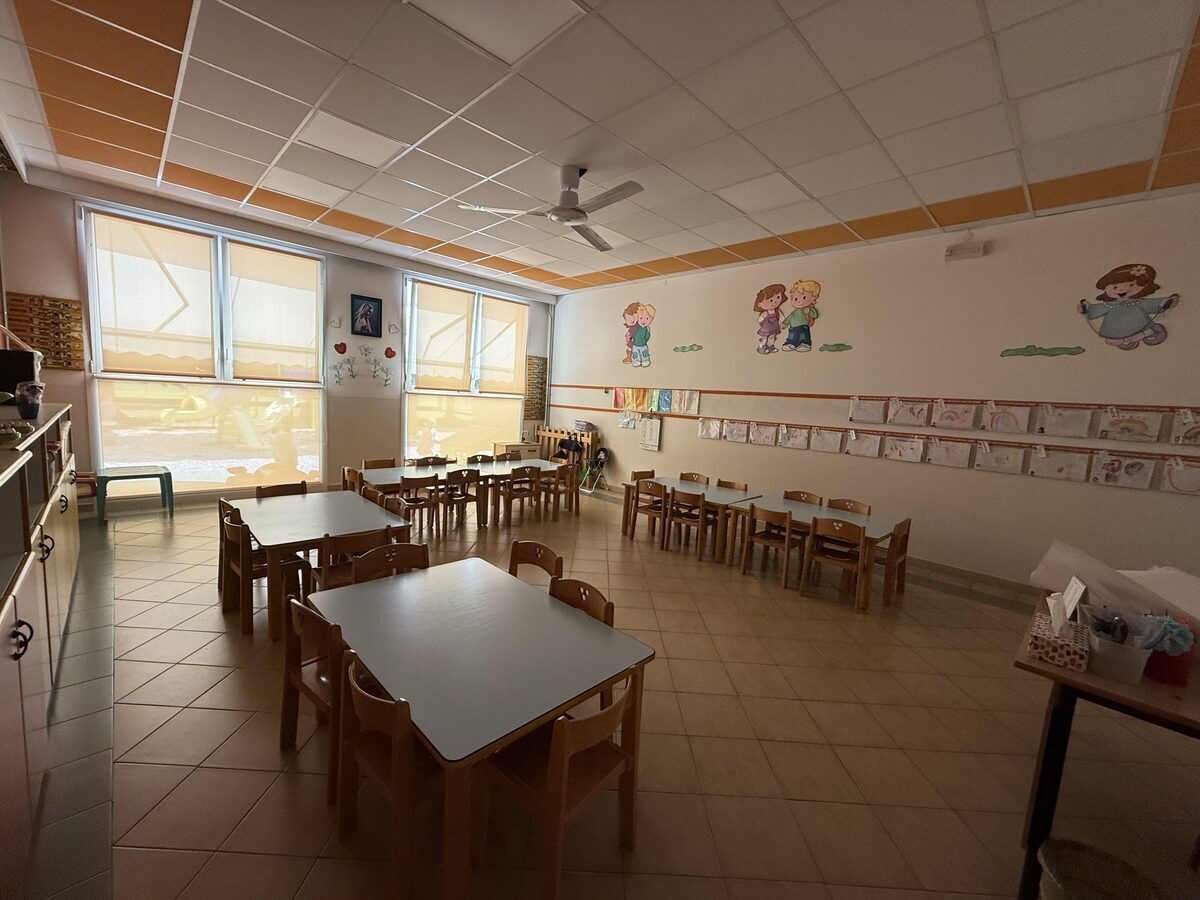
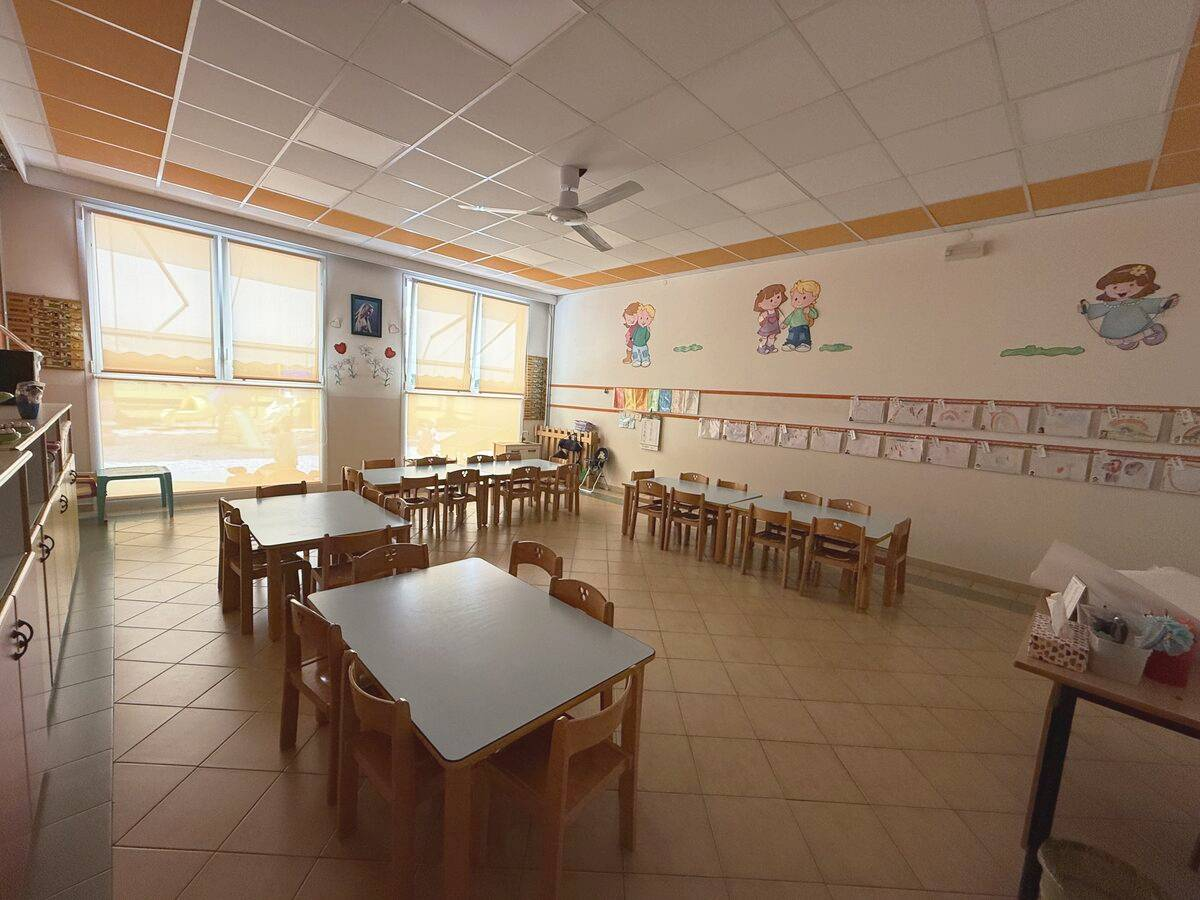
caricamento nuove immagini sul sito

diff --git a/mensa.html b/mensa.html
@@ -20,7 +20,7 @@
     <link rel="icon" type="image/png" sizes="32x32" href="assets/images/favicon-32x32.png">
     <link rel="icon" type="image/png" sizes="16x16" href="assets/images/favicon-16x16.png">
     <link rel="apple-touch-icon" href="assets/images/apple-touch-icon.png">
-    <link rel="stylesheet" href="style.css?v=2">
+    <link rel="stylesheet" href="style.css?v=6">
 </head>
 <body>
     <!-- Header -->
@@ -130,31 +130,31 @@
                     </tr>
                     <tr>
                         <td><strong>Martedì</strong></td>
-                        <td>&mdash;</td>
-                        <td>&mdash;</td>
-                        <td>&mdash;</td>
-                        <td>&mdash;</td>
+                        <td>Frutta/yogurt</td>
+                        <td>Gramigna all'olio</td>
+                        <td>Fettina di tacchino al vapore</td>
+                        <td>Insalata songino</td>
                     </tr>
                     <tr>
                         <td><strong>Mercoledì</strong></td>
-                        <td>&mdash;</td>
-                        <td>&mdash;</td>
-                        <td>&mdash;</td>
-                        <td>&mdash;</td>
+                        <td>Frutta/yogurt</td>
+                        <td>Pasta e fagioli alla veneta</td>
+                        <td>Uova strapazzate agli spinaci</td>
+                        <td>Carote julienne</td>
                     </tr>
                     <tr>
                         <td><strong>Giovedì</strong></td>
-                        <td>&mdash;</td>
-                        <td>&mdash;</td>
-                        <td>&mdash;</td>
-                        <td>&mdash;</td>
+                        <td>Frutta/yogurt</td>
+                        <td>Crema di piselli</td>
+                        <td>Pollo alla romana</td>
+                        <td>Patate al forno</td>
                     </tr>
                     <tr>
                         <td><strong>Venerdì</strong></td>
-                        <td>&mdash;</td>
-                        <td>&mdash;</td>
-                        <td>&mdash;</td>
-                        <td>&mdash;</td>
+                        <td>Frutta/yogurt</td>
+                        <td>Gnocchetti sardi al pomodoro</td>
+                        <td>Prosciutto cotto</td>
+                        <td>Zucchine trifolate</td>
                     </tr>
                 </tbody>
             </table>

diff --git a/style.css b/style.css
@@ -165,7 +165,7 @@ nav ul li a.active {
    ==================================== */
 .hero {
     background-color: var(--colore-secondario); /* colore di riserva se l'immagine non carica */
-    background-image: url('assets/images/ambienti/aula_rossa.jpg');
+    background-image: url('assets/images/ambienti/scuola.jpg');
     background-size: cover;
     background-position: center;
     background-repeat: no-repeat;
@@ -176,13 +176,22 @@ nav ul li a.active {
     overflow: hidden;
 }
 
-/* Velo scuro leggero sopra la foto: insieme all'alone attorno ai caratteri
-   garantisce la leggibilità senza spegnere l'immagine */
+/* Velo concentrato sulla fascia orizzontale del testo, trasparente sopra e sotto.
+   Volutamente SENZA variazione orizzontale: un velo ellittico dava più luce,
+   ma la sua sfumatura laterale si vedeva come un'ombra sull'intonaco chiaro
+   a destra del titolo, dove la foto è piatta e non ha texture che la mascheri. */
 .hero::before {
     content: '';
     position: absolute;
     inset: 0;
-    background: linear-gradient(to bottom, rgba(0, 0, 0, 0.25), rgba(0, 0, 0, 0.35));
+    background: linear-gradient(to bottom,
+                rgba(0, 0, 0, 0) 0%,
+                rgba(0, 0, 0, 0.08) 15%,
+                rgba(0, 0, 0, 0.21) 30%,
+                rgba(0, 0, 0, 0.30) 48%,
+                rgba(0, 0, 0, 0.19) 70%,
+                rgba(0, 0, 0, 0.06) 85%,
+                rgba(0, 0, 0, 0) 100%);
 }
 
 .hero-content {
@@ -198,17 +207,15 @@ nav ul li a.active {
     font-size: 2.5rem;
     font-weight: 700;
     margin-bottom: 20px;
-    text-shadow: 0 0 12px rgba(0, 0, 0, 0.85),
-                 0 2px 5px rgba(0, 0, 0, 0.9),
-                 0 0 30px rgba(0, 0, 0, 0.6);
+    text-shadow: 0 2px 4px rgba(0, 0, 0, 0.85),
+                 0 0 10px rgba(0, 0, 0, 0.8);
 }
 
 .hero p {
     font-size: 1.2rem;
     margin-bottom: 30px;
-    text-shadow: 0 0 10px rgba(0, 0, 0, 0.9),
-                 0 1px 4px rgba(0, 0, 0, 0.9),
-                 0 0 24px rgba(0, 0, 0, 0.6);
+    text-shadow: 0 2px 4px rgba(0, 0, 0, 0.85),
+                 0 0 10px rgba(0, 0, 0, 0.8);
 }
 
 .btn {

diff --git a/sede_e_contatti.html b/sede_e_contatti.html
@@ -12,7 +12,7 @@
     <meta property="og:type" content="website">
     <meta property="og:locale" content="it_IT">
     <meta property="og:url" content="https://michelebatt.github.io/scuola-infanzia-creola/sede_e_contatti.html">
-    <meta property="og:image" content="https://michelebatt.github.io/scuola-infanzia-creola/assets/images/edificio.jpg">
+    <meta property="og:image" content="https://michelebatt.github.io/scuola-infanzia-creola/assets/images/ambienti/scuola.jpg">
     <meta name="twitter:card" content="summary_large_image">
     <title>Contatti | Scuola Infanzia S. M. Goretti Creola (PD)</title>
     <link rel="canonical" href="https://michelebatt.github.io/scuola-infanzia-creola/sede_e_contatti.html">
@@ -20,7 +20,7 @@
     <link rel="icon" type="image/png" sizes="32x32" href="assets/images/favicon-32x32.png">
     <link rel="icon" type="image/png" sizes="16x16" href="assets/images/favicon-16x16.png">
     <link rel="apple-touch-icon" href="assets/images/apple-touch-icon.png">
-    <link rel="stylesheet" href="style.css?v=2">
+    <link rel="stylesheet" href="style.css?v=6">
 </head>
 <body>
     <!-- Header -->
@@ -62,7 +62,7 @@
 
             <div class="contatti-grid">
                 <div class="contatto-item contatto-item-con-foto">
-                    <img src="assets/images/edificio.jpg" class="contatto-foto" alt="L'edificio della scuola visto dall'esterno" loading="lazy">
+                    <img src="assets/images/ambienti/scuola.jpg" class="contatto-foto" alt="La scuola vista dalla strada, con il nome scritto sulla facciata e il cancello d'ingresso su Via Molini" loading="lazy">
                     <div class="contatto-riga">
                         <div class="contatto-icon">&#128205;</div>
                         <div>
@@ -85,7 +85,7 @@
         </section>
 
         <!-- Contatti -->
-        <section class="mt-40">
+        <section class="mt-40" id="contatti">
             <div class="page-title">
                 <h2>Contatti</h2>
                 <p>L'ufficio di segreteria è aperto dal lunedì al venerdì dalle ore 9.00 alle ore 11.00</p>

diff --git a/ambienti.html b/ambienti.html
@@ -20,7 +20,7 @@
     <link rel="icon" type="image/png" sizes="32x32" href="assets/images/favicon-32x32.png">
     <link rel="icon" type="image/png" sizes="16x16" href="assets/images/favicon-16x16.png">
     <link rel="apple-touch-icon" href="assets/images/apple-touch-icon.png">
-    <link rel="stylesheet" href="style.css?v=2">
+    <link rel="stylesheet" href="style.css?v=6">
 </head>
 <body>
     <!-- Header -->
@@ -99,7 +99,7 @@
 
             <div class="gallery">
                 <div class="gallery-item">
-                    <img src="assets/images/ambienti/ingresso_corridoio.jpg" alt="Il corridoio d'ingresso con gli armadietti colorati e le decorazioni appese" loading="lazy">
+                    <img src="assets/images/ambienti/ingresso.jpg" alt="L'ingresso della scuola visto dall'esterno, con le porte a vetri, la statua dell'angelo sul pilastro e la scritta di benvenuto" loading="lazy">
                     <div class="gallery-item-overlay">
                         <h3>Ingresso</h3>
                     </div>
@@ -127,7 +127,7 @@
                 </div>
 
                 <div class="gallery-item">
-                    <div class="placeholder-img" style="width: 100%; height: 100%;">&#128701;</div>
+                    <img src="assets/images/ambienti/bagni.jpg" alt="I servizi igienici a misura di bambino, con lavandini bassi e sanitari piccoli" loading="lazy">
                     <div class="gallery-item-overlay">
                         <h3>Bagni</h3>
                     </div>

diff --git a/proposta_educativa.html b/proposta_educativa.html
@@ -20,7 +20,7 @@
     <link rel="icon" type="image/png" sizes="32x32" href="assets/images/favicon-32x32.png">
     <link rel="icon" type="image/png" sizes="16x16" href="assets/images/favicon-16x16.png">
     <link rel="apple-touch-icon" href="assets/images/apple-touch-icon.png">
-    <link rel="stylesheet" href="style.css?v=2">
+    <link rel="stylesheet" href="style.css?v=6">
 </head>
 <body>
     <!-- Header -->
@@ -135,7 +135,7 @@
                 </article>
 
                 <article class="card">
-                    <img src="assets/images/parrocchia.jpg" class="card-img" style="object-position: center 20%;" alt="La chiesa parrocchiale di Creola con il campanile" loading="lazy">
+                    <img src="assets/images/madonnina.jpg" class="card-img" style="object-position: center 30%;" alt="La statua della Madonna con il Bambino nella scuola, su una parete decorata con stelline dorate" loading="lazy">
                     <div class="card-content">
                         <h3>La formazione cristiana cattolica</h3>
                         <p>Una dimensione che attraversa e accompagna tutti i campi di esperienza. Attraverso i racconti del Vangelo, le parabole, i canti e semplici momenti di preghiera, i bambini sono accompagnati nella scoperta delle virtù cristiane che orientano la vita e le relazioni, crescendo nella gratitudine e nell'apertura verso gli altri.</p>

diff --git a/scuola.html b/scuola.html
@@ -20,7 +20,7 @@
     <link rel="icon" type="image/png" sizes="32x32" href="assets/images/favicon-32x32.png">
     <link rel="icon" type="image/png" sizes="16x16" href="assets/images/favicon-16x16.png">
     <link rel="apple-touch-icon" href="assets/images/apple-touch-icon.png">
-    <link rel="stylesheet" href="style.css?v=2">
+    <link rel="stylesheet" href="style.css?v=6">
 </head>
 <body>
     <!-- Header -->
@@ -102,7 +102,7 @@
             </article>
 
             <article class="card">
-                <img src="assets/images/presepe.jpg" class="card-img" alt="Il presepe in legno allestito all'esterno della scuola" loading="lazy">
+                <img src="assets/images/sacra_famiglia.jpg" class="card-img card-img-alto" alt="Dipinto della Sacra Famiglia: San Giuseppe al lavoro di falegname e la Madonna che legge con i bambini" loading="lazy">
                 <div class="card-content">
                     <h3>Identità cristiana cattolica</h3>
                     <p>La scuola educa nella luce del Vangelo, offrendo ai bambini momenti di preghiera e accompagnandoli nella scoperta dei valori cristiani che orientano la vita e le relazioni.</p>

diff --git a/moduli.html b/moduli.html
@@ -20,7 +20,7 @@
     <link rel="icon" type="image/png" sizes="32x32" href="assets/images/favicon-32x32.png">
     <link rel="icon" type="image/png" sizes="16x16" href="assets/images/favicon-16x16.png">
     <link rel="apple-touch-icon" href="assets/images/apple-touch-icon.png">
-    <link rel="stylesheet" href="style.css?v=2">
+    <link rel="stylesheet" href="style.css?v=6">
 </head>
 <body>
     <!-- Header -->
@@ -62,7 +62,7 @@
 
             <div class="info-box">
                 <p>In questa sezione potete scaricare tutti i moduli necessari per l'iscrizione e la gestione della frequenza scolastica. I moduli possono essere compilati a mano o al computer e devono essere consegnati in segreteria.</p>
-                <p class="mt-20">Per qualsiasi dubbio sulla compilazione, non esitate a <a href="sede_e_contatti.html">contattare la segreteria</a>.</p>
+                <p class="mt-20">Per qualsiasi dubbio sulla compilazione, non esitate a <a href="sede_e_contatti.html#contatti">contattare la segreteria</a>.</p>
             </div>
         </section>
 

diff --git a/index.html b/index.html
@@ -27,7 +27,7 @@
     <link rel="icon" type="image/png" sizes="32x32" href="assets/images/favicon-32x32.png">
     <link rel="icon" type="image/png" sizes="16x16" href="assets/images/favicon-16x16.png">
     <link rel="apple-touch-icon" href="assets/images/apple-touch-icon.png">
-    <link rel="stylesheet" href="style.css?v=2">
+    <link rel="stylesheet" href="style.css?v=6">
     <!-- Dati strutturati JSON-LD -->
     <script type="application/ld+json">
     {

diff --git a/404.html b/404.html
@@ -10,7 +10,7 @@
     <link rel="icon" type="image/png" sizes="32x32" href="assets/images/favicon-32x32.png">
     <link rel="icon" type="image/png" sizes="16x16" href="assets/images/favicon-16x16.png">
     <link rel="apple-touch-icon" href="assets/images/apple-touch-icon.png">
-    <link rel="stylesheet" href="style.css?v=2">
+    <link rel="stylesheet" href="style.css?v=6">
 </head>
 <body>
     <!-- Header -->

diff --git a/avvisi.html b/avvisi.html
@@ -20,7 +20,7 @@
     <link rel="icon" type="image/png" sizes="32x32" href="assets/images/favicon-32x32.png">
     <link rel="icon" type="image/png" sizes="16x16" href="assets/images/favicon-16x16.png">
     <link rel="apple-touch-icon" href="assets/images/apple-touch-icon.png">
-    <link rel="stylesheet" href="style.css?v=2">
+    <link rel="stylesheet" href="style.css?v=6">
 </head>
 <body>
     <!-- Header -->

diff --git a/orari_calendario.html b/orari_calendario.html
@@ -20,7 +20,7 @@
     <link rel="icon" type="image/png" sizes="32x32" href="assets/images/favicon-32x32.png">
     <link rel="icon" type="image/png" sizes="16x16" href="assets/images/favicon-16x16.png">
     <link rel="apple-touch-icon" href="assets/images/apple-touch-icon.png">
-    <link rel="stylesheet" href="style.css?v=2">
+    <link rel="stylesheet" href="style.css?v=6">
 </head>
 <body>
     <!-- Header -->
